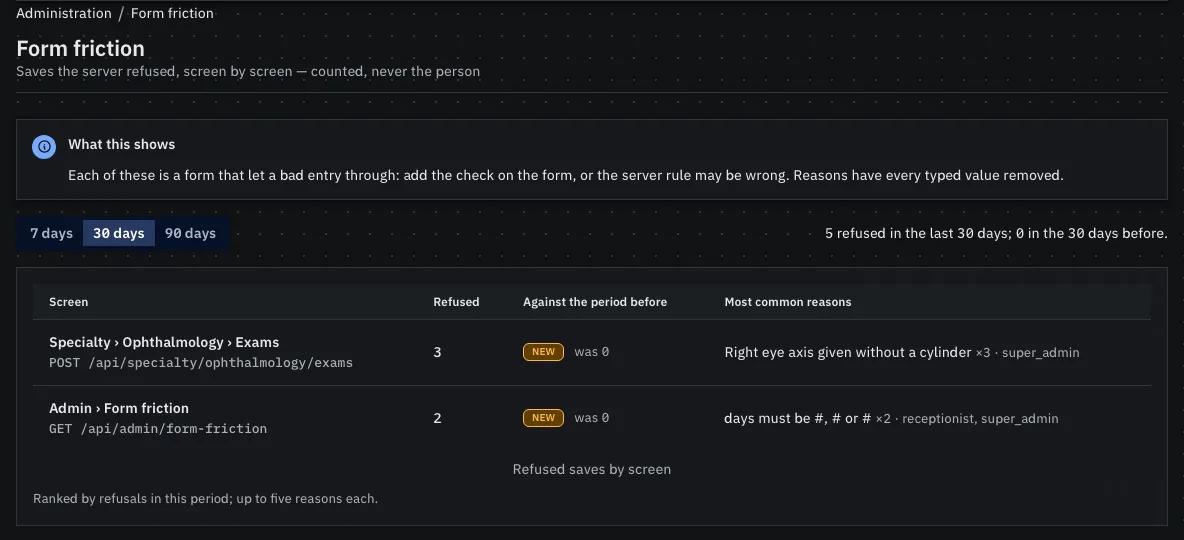
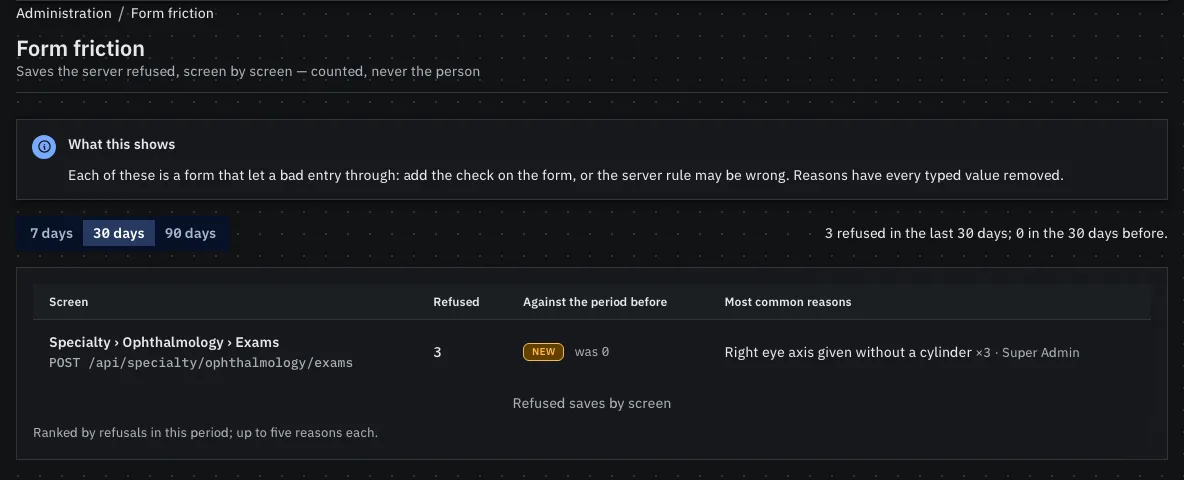
Count only refused saves and show roles by name in Form friction
A 400 on a GET is code querying badly, not a form a person filled in, and it
crowded the ranking (the report's own bad period showed up as a screen). Role
codes like super_admin now read as the role's name.

diff --git a/medbrains/apps/web/src/pages/admin/form-friction/labels.ts b/medbrains/apps/web/src/pages/admin/form-friction/labels.ts
@@ -2,6 +2,7 @@
  * Words for the form friction report: a readable name for a route template,
  * and the change against the period before.
  */
+import { ROLE_TEMPLATES } from "@medbrains/types";
 import type { BadgeTone } from "@/components/ui";
 
 /** The periods a reader may pick, in days. */
@@ -42,4 +43,16 @@ export function trendOf(count: number, previous: number): Trend {
   return pct > 0
     ? { label: `+${pct}%`, tone: "warning" }
     : { label: `−${Math.abs(pct)}%`, tone: "success" };
+}
+
+/**
+ * A role's display name: the built-in role's name ("Super Admin",
+ * "Receptionist"), or for a custom role its code in words ("ward_clerk" →
+ * "Ward clerk"), since custom role names need a permission this screen does not.
+ */
+export function roleName(code: string): string {
+  const builtIn = ROLE_TEMPLATES[code]?.label;
+  if (builtIn) return builtIn;
+  const words = code.replace(/[-_]+/g, " ").trim();
+  return words.charAt(0).toUpperCase() + words.slice(1);
 }

diff --git a/medbrains/apps/web/src/pages/admin/form-friction/labels.test.ts b/medbrains/apps/web/src/pages/admin/form-friction/labels.test.ts
@@ -1,5 +1,5 @@
 import { describe, expect, it } from "vitest";
-import { screenName, trendOf } from "./labels";
+import { roleName, screenName, trendOf } from "./labels";
 
 describe("form friction labels", () => {
   it("names a screen from its route template, dropping ids", () => {
@@ -16,5 +16,11 @@ describe("form friction labels", () => {
     expect(trendOf(15, 10)).toEqual({ label: "+50%", tone: "warning" });
     expect(trendOf(3, 4)).toEqual({ label: "−25%", tone: "success" });
     expect(trendOf(4, 4)).toEqual({ label: "Same", tone: "neutral" });
+  });
+
+  it("shows a role by its name, never its code", () => {
+    expect(roleName("super_admin")).toBe("Super Admin");
+    expect(roleName("receptionist")).toBe("Receptionist");
+    expect(roleName("ward_clerk")).toBe("Ward clerk");
   });
 });

diff --git a/medbrains/apps/web/src/pages/admin/form-friction/reason-list.tsx b/medbrains/apps/web/src/pages/admin/form-friction/reason-list.tsx
@@ -1,5 +1,6 @@
 import { Stack, Text } from "@mantine/core";
 import type { FrictionRoute } from "@medbrains/types";
+import { roleName } from "./labels";
 
 interface ReasonListProps {
   route: FrictionRoute;
@@ -20,7 +21,7 @@ export function ReasonList({ route }: ReasonListProps) {
         <Text key={m.message} size="sm">
           {m.message}{" "}
           <Text span size="xs" c="dimmed">
-            ×{m.count.toLocaleString("en-IN")} · {m.roles.join(", ")}
+            ×{m.count.toLocaleString("en-IN")} · {m.roles.map(roleName).join(", ")}
           </Text>
         </Text>
       ))}

diff --git a/medbrains/apps/web/src/pages/admin/form-friction.test.tsx b/medbrains/apps/web/src/pages/admin/form-friction.test.tsx
@@ -54,6 +54,7 @@ describe("Admin → Form friction", () => {
     expect(await screen.findByText("Specialty › Ophthalmology › Exams")).toBeInTheDocument();
     expect(screen.getByText("Right eye axis given without a cylinder")).toBeInTheDocument();
     expect(screen.getByText("+250%")).toBeInTheDocument();
+    expect(screen.getByText(/· Doctor$/)).toBeInTheDocument();
     expect(screen.getByTestId("friction-totals")).toHaveTextContent("7 refused in the last 30");
     expect(api.getFormFriction).toHaveBeenCalledWith(30);
   });

diff --git a/medbrains/crates/medbrains-server/tests/form_friction_test.rs b/medbrains/crates/medbrains-server/tests/form_friction_test.rs
@@ -1,16 +1,21 @@
-//! Form friction: a refused save is counted against its route, and only an
-//! admin with `admin.form_friction.view` can read the counts.
+//! Form friction: a refused save is counted against its route, a refused
+//! query is not, and only an admin with `admin.form_friction.view` can read
+//! the counts.
 //!
-//! The refusal used is the report's own (`?days=5` is a 400), so the test
-//! needs no other module's data. The count goes through the shared error
-//! type, the middleware, the in-memory counter and the flush — every step a
-//! real refusal takes.
+//! The refused save is an ophthalmology exam with an axis and no cylinder,
+//! which the server rejects before looking the patient up, so the test needs
+//! no other module's data. The count goes through the shared error type, the
+//! middleware, the in-memory counter and the flush — every step a real
+//! refusal takes.
 
 use crate::common;
 
 use reqwest::StatusCode;
+use serde_json::json;
 
 const VIEW: &str = "admin.form_friction.view";
+const REPORT: &str = "/api/admin/form-friction";
+const EXAMS: &str = "/api/specialty/ophthalmology/exams";
 
 /// One server for every step: the counter is process-wide.
 #[tokio::test]
@@ -21,7 +26,7 @@ async fn a_refused_save_is_counted_and_only_the_permitted_see_it() {
     let desk = common::provision_staff(&app, &csrf, "receptionist", &[]).await;
     let resp = desk
         .client
-        .get(app.url("/api/admin/form-friction?days=30"))
+        .get(app.url(&format!("{REPORT}?days=30")))
         .send()
         .await
         .expect("request");
@@ -31,20 +36,35 @@ async fn a_refused_save_is_counted_and_only_the_permitted_see_it() {
         "no permission, no report"
     );
 
+    // A refused query: code asking badly, not a form. Not counted.
     let quality = common::provision_staff_with(&app, &csrf, "receptionist", &[VIEW], &[]).await;
-    let refused = quality
+    let query = quality
         .client
-        .get(app.url("/api/admin/form-friction?days=5&ref=550e8400-e29b-41d4-a716-446655440000"))
+        .get(app.url(&format!("{REPORT}?days=5")))
         .send()
         .await
         .expect("request");
-    assert_eq!(refused.status(), StatusCode::BAD_REQUEST);
+    assert_eq!(query.status(), StatusCode::BAD_REQUEST);
+
+    // A refused save, with an id in the body that must not be kept.
+    let save = app
+        .client
+        .post(app.url(EXAMS))
+        .header("x-csrf-token", &csrf)
+        .json(&json!({
+            "patient_id": "550e8400-e29b-41d4-a716-446655440000",
+            "axis_od": 90,
+        }))
+        .send()
+        .await
+        .expect("request");
+    assert_eq!(save.status(), StatusCode::BAD_REQUEST);
 
     medbrains_server_core::form_friction::flush(&app.db).await;
 
     let report: serde_json::Value = quality
         .client
-        .get(app.url("/api/admin/form-friction?days=7"))
+        .get(app.url(&format!("{REPORT}?days=7")))
         .send()
         .await
         .expect("request")
@@ -52,16 +72,23 @@ async fn a_refused_save_is_counted_and_only_the_permitted_see_it() {
         .await
         .expect("json");
     let routes = report["routes"].as_array().expect("routes");
-    let own = routes
+    assert!(
+        routes.iter().all(|r| r["route"] != REPORT),
+        "a refused GET is not counted: {report}"
+    );
+    let exams = routes
         .iter()
-        .find(|r| r["route"] == "/api/admin/form-friction")
-        .unwrap_or_else(|| panic!("the refusal is counted: {report}"));
-    assert_eq!(own["method"], "GET");
-    assert!(own["count"].as_i64().is_some_and(|n| n >= 1), "{own}");
-    let reason = &own["messages"][0];
-    assert_eq!(reason["message"], "days must be #, # or #", "{own}");
+        .find(|r| r["route"] == EXAMS)
+        .unwrap_or_else(|| panic!("the refused save is counted: {report}"));
+    assert_eq!(exams["method"], "POST");
+    assert!(exams["count"].as_i64().is_some_and(|n| n >= 1), "{exams}");
+    let reason = &exams["messages"][0];
     assert_eq!(
-        reason["roles"][0], "receptionist",
+        reason["message"], "Right eye axis given without a cylinder",
+        "{exams}"
+    );
+    assert_eq!(
+        reason["roles"][0], "super_admin",
         "the role, never the person"
     );
     assert!(

diff --git a/medbrains/crates/medbrains-server-core/src/form_friction.rs b/medbrains/crates/medbrains-server-core/src/form_friction.rs
@@ -1,8 +1,9 @@
 //! Form friction: refused saves counted per screen, never per person.
 //!
-//! A 400 or 422 usually means a form let a bad entry through — the server
-//! knew a rule the screen did not check. One middleware ([`record_refusals`])
-//! counts every such answer from the protected API in a bounded in-memory map
+//! A 400 or 422 on a save usually means a form let a bad entry through — the
+//! server knew a rule the screen did not check. One middleware
+//! ([`record_refusals`]) counts every such answer to a save (POST, PUT, PATCH,
+//! DELETE) from the protected API in a bounded in-memory map
 //! keyed by hospital, day, method, route template, status, role and the
 //! refusal reason with every value scrubbed out ([`normalise`]). A background
 //! task ([`spawn`]) adds the counts to `form_friction_daily` once a minute;
@@ -19,7 +20,7 @@ use std::sync::{LazyLock, Mutex, MutexGuard, PoisonError};
 use std::time::Duration;
 
 use axum::extract::{MatchedPath, Request};
-use axum::http::StatusCode;
+use axum::http::{Method, StatusCode};
 use axum::middleware::Next;
 use axum::response::Response;
 use chrono::NaiveDate;
@@ -120,11 +121,14 @@ pub fn record(key: Key) {
     counter().add(key, 1);
 }
 
-/// Middleware: count a 400 or 422 against its route, hospital and role.
+/// Middleware: count a refused save (400 or 422) against its route, hospital and role.
 ///
 /// Requests with no signed-in caller or no matched route are not counted.
 /// Never changes the response.
 pub async fn record_refusals(request: Request, next: Next) -> Response {
+    if !is_save(request.method()) {
+        return next.run(request).await;
+    }
     let route = request
         .extensions()
         .get::<MatchedPath>()
@@ -155,6 +159,16 @@ pub async fn record_refusals(request: Request, next: Next) -> Response {
         });
     }
     response
+}
+
+/// Whether `method` saves something. A refused GET is a bad query from code,
+/// not a form a person filled in, so it would only crowd the ranking.
+#[must_use]
+pub const fn is_save(method: &Method) -> bool {
+    matches!(
+        *method,
+        Method::POST | Method::PUT | Method::PATCH | Method::DELETE
+    )
 }
 
 /// A refusal reason with nothing typed left in it, so it can be kept and shown.
@@ -270,7 +284,8 @@ async fn write_tenant(
 
 #[cfg(test)]
 mod tests {
-    use super::{Counter, Key, MAX_ENTRIES, MAX_MESSAGE, OTHER, normalise};
+    use super::{Counter, Key, MAX_ENTRIES, MAX_MESSAGE, OTHER, is_save, normalise};
+    use axum::http::Method;
     use uuid::Uuid;
 
     /// A key differing only in its message.
@@ -332,6 +347,17 @@ mod tests {
         assert_eq!(normalise(&"a ".repeat(500)).chars().count(), MAX_MESSAGE);
         assert_eq!(normalise(""), OTHER);
         assert_eq!(normalise("कुछ गलत"), OTHER);
+    }
+
+    /// Only saves are counted: a refused query is code, not a form.
+    #[test]
+    fn only_saves_are_counted() {
+        for method in [Method::POST, Method::PUT, Method::PATCH, Method::DELETE] {
+            assert!(is_save(&method), "{method}");
+        }
+        for method in [Method::GET, Method::HEAD, Method::OPTIONS] {
+            assert!(!is_save(&method), "{method}");
+        }
     }
 
     /// The same refusal adds up; a new one past the cap is counted as dropped.

diff --git a/medbrains/docs/DECISIONS.md b/medbrains/docs/DECISIONS.md
@@ -560,4 +560,4 @@ went wrong in a way that could recur gets a row too.
 | 2026-11-14 | The docs site has a style guide, `medbrains/apps/docs/STYLE.md`, modelled on the CrateDB, Argo CD and Python docs: four page types with templates, imperative "you" in the present tense, one action per step then **Expected:** then **Check it worked**, callouts only for real consequences, version labels from the release calendar, clinical text that describes the software and never claims a certification, a terminology table (main machine, hospital, country pack, …), banned words and a reviewer checklist. `scripts/check-prose.mjs` reports banned words and Title Case headings, report-only in CI until existing pages are clean | The owner asked for care with the language: hospital IT staff and clinicians act on these pages, often in a second language, and a vague or overclaiming page is a safety problem | Vale (a Go binary and a styles folder to download in CI for a dozen patterns; revisit if the rules need per-word exceptions); copying one site's guide whole (each has habits we do not want: CrateDB's marketing tone, Argo CD's multi-action steps, Python's chatty HOWTOs); blocking CI now (12 findings on existing pages) | Done |
 | 2026-11-14 | Reversal for the project's own servers only: they may send error reports to sentry.io instead of running Rustrak. A `SENTRY_DSN` off this host (not loopback, not under `COOKIE_DOMAIN`) is accepted only with `SENTRY_ALLOW_EXTERNAL=1`; without it error tracking is off, logged at startup and warned by the preflight, so the browser config and tunnel are off too. With it the preflight states that reports go to an outside service. Rustrak stays the default for hospital installs; external projects should be EU-region under a DPA, never with `send_default_pii` | Owner: save server resources on our own boxes, while a hospital install must never send errors outside by accident | Always allowing an external DSN (one copied env line sends a hospital's errors abroad); keeping Rustrak only (costs our own servers a container and disk for no patient-data benefit) | Done |
 | 2026-11-14 | The release workflow tracks each tagged release in Sentry (org `medbrains`): `medbrains@<version>` in the server, web, Android, iOS and desktop projects with `set-commits --auto`, the web source maps (the existing vite plugin), the Android R8 mappings and the iOS dSYMs; Publish marks a `prod` deploy and finalizes it. One release name everywhere: `MEDBRAINS_RELEASE`, which the server already read, now also names the web app's release (falling back to the commit, so hospital deploys are unchanged), and the Docker build takes it as a build argument. Every Sentry step is skipped without `SENTRY_AUTH_TOKEN` and only warns on failure | Release builds reported two different releases (server: crate version, web: commit), so one release never held both sides of an error, and minified stack traces could not be read | `getsentry/action-release` (it covers create and source maps but not R8 or dSYM uploads, so the CLI would still be needed); uploading Rust debug files (the release profile strips everything, `strip = true`, and there is no split debug info to send); letting the vite plugin set commits and finalize (a shallow checkout, and a draft that is never published would read as released) | Done |
-| 2026-11-14 | Form friction: every 400 and 422 from the signed-in API is counted per hospital, day, method, matched route template, status, role and refusal reason, in a bounded in-memory map (10,000 keys; overflow is counted and logged) that a background task adds to `form_friction_daily` once a minute and once at shutdown. Admin → Form friction (`admin.form_friction.view`, granted to the quality officer and the medical superintendent) ranks routes against the period before. The reason goes through the error-report scrubber, then each digit run becomes `#`, non-ASCII goes and it is cut to 120 characters; an unscrubbable reason is `other`. Monthly partitions are dropped after 13 months (about 400 days) by the existing `partition_config` job | A refused save is a form that let a bad entry through, or a server rule that is wrong, and it was a WARN line nobody read. The screen is counted, never the person, and no submitted value is kept | Sentry events (they are for crashes, not refusals, and hospital data does not leave the hospital); per-user tracking (it watches staff, not forms); a database write per request (it puts the counter on the request path and fails a save when the table is slow); the raw path (it carries record ids) | Done |
+| 2026-11-14 | Form friction: every 400 and 422 answer to a save (POST, PUT, PATCH, DELETE; a refused GET is code querying badly, not a form) from the signed-in API is counted per hospital, day, method, matched route template, status, role and refusal reason, in a bounded in-memory map (10,000 keys; overflow is counted and logged) that a background task adds to `form_friction_daily` once a minute and once at shutdown. Admin → Form friction (`admin.form_friction.view`, granted to the quality officer and the medical superintendent) ranks routes against the period before. The reason goes through the error-report scrubber, then each digit run becomes `#`, non-ASCII goes and it is cut to 120 characters; an unscrubbable reason is `other`. Monthly partitions are dropped after 13 months (about 400 days) by the existing `partition_config` job | A refused save is a form that let a bad entry through, or a server rule that is wrong, and it was a WARN line nobody read. The screen is counted, never the person, and no submitted value is kept | Sentry events (they are for crashes, not refusals, and hospital data does not leave the hospital); per-user tracking (it watches staff, not forms); a database write per request (it puts the counter on the request path and fails a save when the table is slow); the raw path (it carries record ids) | Done |
